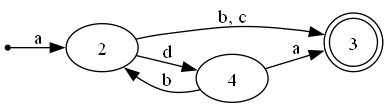
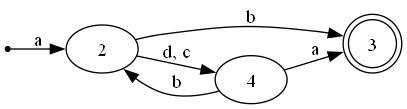
Export

diff --git a/automate.py b/automate.py
@@ -104,8 +104,25 @@ class Automate:
         dot = self.to_dot()
         dot.render(filename, format='png', cleanup=True)
 
-    
-    
+def exporter_automate(automate, filename):
+    with open(filename, 'w') as file:
+        # Écriture de l'alphabet
+        file.write(' '.join(automate.alphabet) + '\n')
+        
+        # Écriture des états
+        file.write(' '.join(automate.etats) + '\n')
+        
+        # Écriture des états initiaux
+        file.write(' '.join(automate.initiaux) + '\n')
+        
+        # Écriture des états terminaux
+        file.write(' '.join(automate.terminaux) + '\n')
+        
+        # Écriture des transitions
+        for source, transitions in automate.transitions.items():
+            for symboles, destination in transitions.items():
+                file.write(f"{source} {' '.join(symboles)} {destination}\n")
+
 
                 
 
@@ -122,8 +139,8 @@ automate.ajouter_etat('4')
 
 # Ajout des transitions
 automate.ajouter_transition('1', ['a'], '2')
-automate.ajouter_transition('2', ['b', 'c'], '3')
-automate.ajouter_transition('2', ['d'], '4')
+automate.ajouter_transition('2', ['b'], '3')
+automate.ajouter_transition('2', ['d', 'c'], '4')
 automate.ajouter_transition('4', ['a'], '3')
 automate.ajouter_transition('4', ['b'], '2')
 
@@ -131,6 +148,11 @@ automate.ajouter_transition('4', ['b'], '2')
 print(automate)
 #print(automate.to_dot())
 automate.to_png('automate')
+
+exporter_automate(automate, 'automate.txt')
+
+
+
 
 
 
